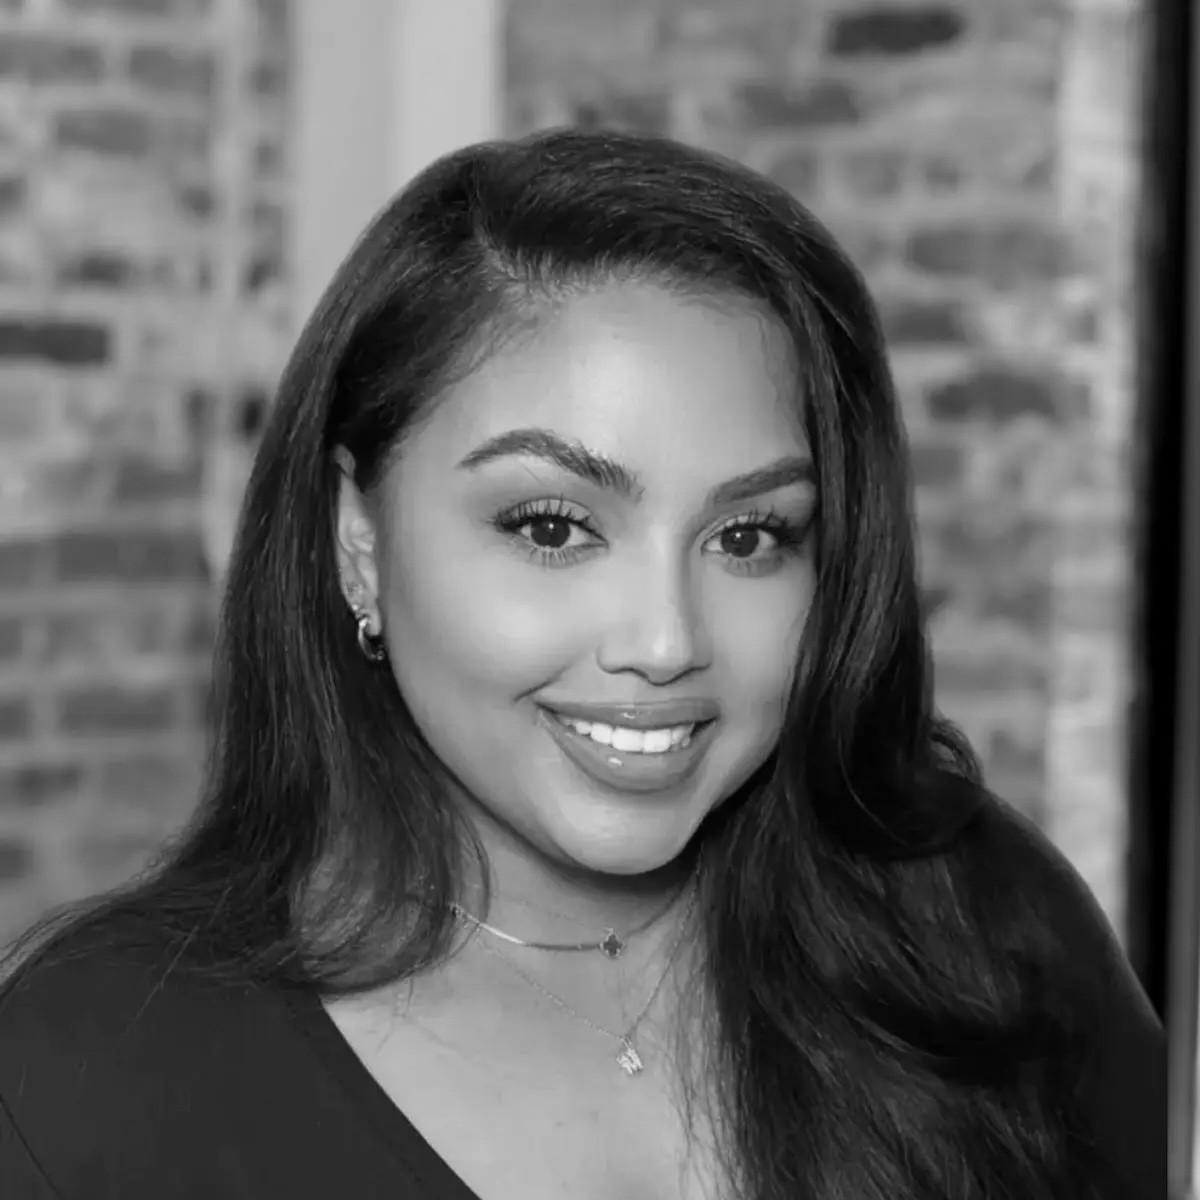
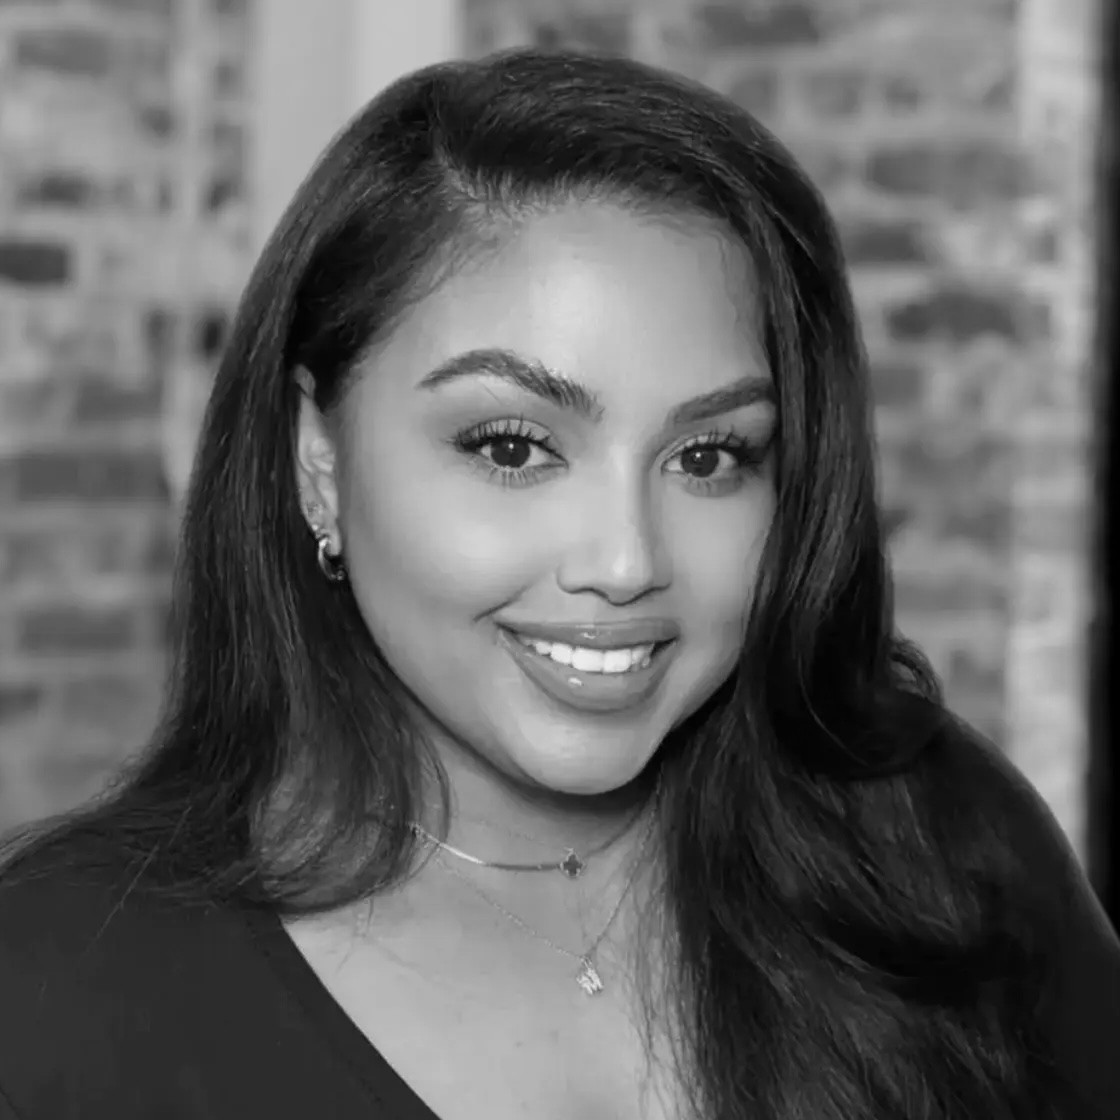
Tighten headroom on Diti Bhasin's headshot

diff --git a/speakers/index.html b/speakers/index.html
@@ -398,7 +398,7 @@ class Component extends DCLogic {
       { name: 'Tom Jones', role: 'Director of Content Delivery, Brand & Digital Marketing', company: 'The WholeJonesGroup', track: 'b2c', sessionShort: 'IGNITE Emcee', session: 'B2C Breakout Panel', slot: 'Barn Room', bio: 'Tom Jones has helped shape brands, campaigns, and customer experiences across startups, nonprofits, and Fortune 500 companies — including Procter & Gamble, Folgers, Sears, Anthem Blue Cross & Blue Shield, and the Omnicom Group — working at the intersection of strategy and creative execution. Now VP Brand Evangelist for AMA Cincinnati and a past IGNITE Chair, he’s helped produce three IGNITE CX Conferences and returns for a fourth, this time with the easier assignment: sitting on stage with people smarter than him and asking questions.\n\nFortunately, asking the question behind the question is the most consistent part of his career — honed everywhere from designing for NASA to selling meatloaf sandwiches. He’s curious about AI and happy to follow a good conversation down a rabbit hole. Expect good questions, straight talk, and the occasional raised eyebrow.', pos: 'center 25%', photo: '../assets/speakers/Tom_Jones.jpg' },
       { name: 'Troy Woolery', role: 'Director of Business Development', company: 'Vaco', track: 'b2c', sessionShort: 'B2C Panel Moderator', session: 'B2C Breakout Panel', slot: 'Barn Room', bio: 'Troy Woolery is a business development and technology solutions executive with more than 20 years of experience helping organizations turn complex business challenges into measurable growth. As Director of Business Development at Vaco/Highspring, he partners with enterprise leaders across AI, digital transformation, product strategy, customer experience, analytics, and workforce solutions.\n\nTroy’s career includes leadership roles with Procter & Gamble, Kroger, Fusion Alliance, and Grey Midwest, as well as serving as an adjunct professor at Miami University. He brings a practitioner’s perspective to the intersection of technology, customer experience, and human-led growth.', photo: '../assets/speakers/Troy_Woolery.jpg' },
       { name: 'Alex Schutte', role: 'Senior Vice President, Marketing', company: 'Hubstaff', track: 'b2b', sessionShort: 'B2B Panelist', session: 'B2B Breakout Panel', slot: 'The Theatre', bio: 'Alex Schutte is SVP of Marketing at Hubstaff, where he leads a global remote marketing organization focused on helping businesses improve productivity, workforce intelligence, and operational efficiency. He’s spent nearly two decades helping B2B SaaS companies connect marketing activity to revenue, most notably during his eight-plus years at Paycor, where his team helped grow revenue contribution by more than 500% as the company scaled from founder-led to public.\n\nAlex is a data-driven marketer at his core. He believes that growth comes from focus, not chasing every opportunity, and that the best marketing organizations balance creativity with accountability. His teams drive measurable growth through disciplined execution, clear prioritization, and close alignment with revenue goals.\n\nOutside of work, Alex serves on the board of Ensemble Theatre and the ELT of March of Dimes Cincinnati, and is even a certified Bourbon Steward. In 2020, he was named to the Cincinnati Business Courier’s Forty Under 40.', photo: '../assets/speakers/Alex_Schutte.jpg' },
-      { name: 'Diti Bhasin', role: 'Chief Marketing Officer', company: 'Kolar Design', track: 'b2b', sessionShort: 'B2B Panelist', session: 'B2B Breakout Panel', slot: 'The Theatre', bio: 'Full bio coming soon.', photo: '../assets/speakers/Diti_Bhasin.jpg', pos: 'center 25%' },
+      { name: 'Diti Bhasin', role: 'Chief Marketing Officer', company: 'Kolar Design', track: 'b2b', sessionShort: 'B2B Panelist', session: 'B2B Breakout Panel', slot: 'The Theatre', bio: 'Full bio coming soon.', photo: '../assets/speakers/Diti_Bhasin.jpg', pos: 'center 12%' },
       { name: 'Mike Thomas', role: 'Owner and CEO', company: 'Upstream 360', track: 'b2b', sessionShort: 'B2B Panelist', session: 'B2B Breakout Panel', slot: 'The Theatre', bio: 'Mike Thomas is an author, entrepreneur, and unapologetic curious nerd fascinated by the intersection of science, innovation, business, and human behavior. As Owner and CEO of Upstream 360, The Product Communication Agency, he helps brands uncover what makes their products remarkable and turn that truth into stories, demonstrations, and experiences people can understand and believe.\n\nBefore joining Upstream 360, Mike spent 17 years at Procter & Gamble across R&D, innovation, and marketing. A chemical engineer with an MBA, he brings a rare perspective that spans the lab, the business, and the story. He is also co-author of Who How WOW: The Curiously Nerdy Guide to Product Communication.', photo: '../assets/speakers/Mike_Thomas.jpg', pos: 'center 10%' },
       { name: 'Stephen Brent May', role: 'Founder, One Foot Over · Host, B2B Happy Hour Podcast', company: 'One Foot Over', track: 'b2b', sessionShort: 'B2B Panel Moderator', session: 'B2B Breakout Panel', slot: 'The Theatre', bio: 'Full bio coming soon.', photo: '../assets/speakers/Stephen_Brent_May.jpg' },
       { name: 'Hami Arrington', role: 'Co-Founder, One Foot Over · Host, B2B Happy Hour Podcast', company: 'One Foot Over', track: 'b2b', sessionShort: 'B2B Panel Moderator', session: 'B2B Breakout Panel', slot: 'The Theatre', bio: 'Full bio coming soon.', photo: '../assets/speakers/Hami_Arrington.jpg', pos: 'center 55%' },

diff --git a/agenda/index.html b/agenda/index.html
@@ -344,7 +344,7 @@ class Component extends DCLogic {
         { initial: 'MT', name: 'Mike Thomas', title: 'Owner & CEO, Upstream 360', color: C[2], photo: '../assets/speakers/Mike_Thomas.jpg', pos: 'center 10%' } ]);
     const personalizeB2B = panel(
       b2bModerators,
-      [ { initial: 'DB', name: 'Diti Bhasin', title: 'CMO, Kolar Design', color: C[0], photo: '../assets/speakers/Diti_Bhasin.jpg', pos: 'center 25%' } ]);
+      [ { initial: 'DB', name: 'Diti Bhasin', title: 'CMO, Kolar Design', color: C[0], photo: '../assets/speakers/Diti_Bhasin.jpg', pos: 'center 12%' } ]);
 
     const allSlots = [
       { time: '8:30 AM', duration: '45 min', items: [ mk('breakType', { title: 'Doors Open & Registration', desc: 'Check in, grab coffee and a light breakfast, and find your people.' }) ] },
